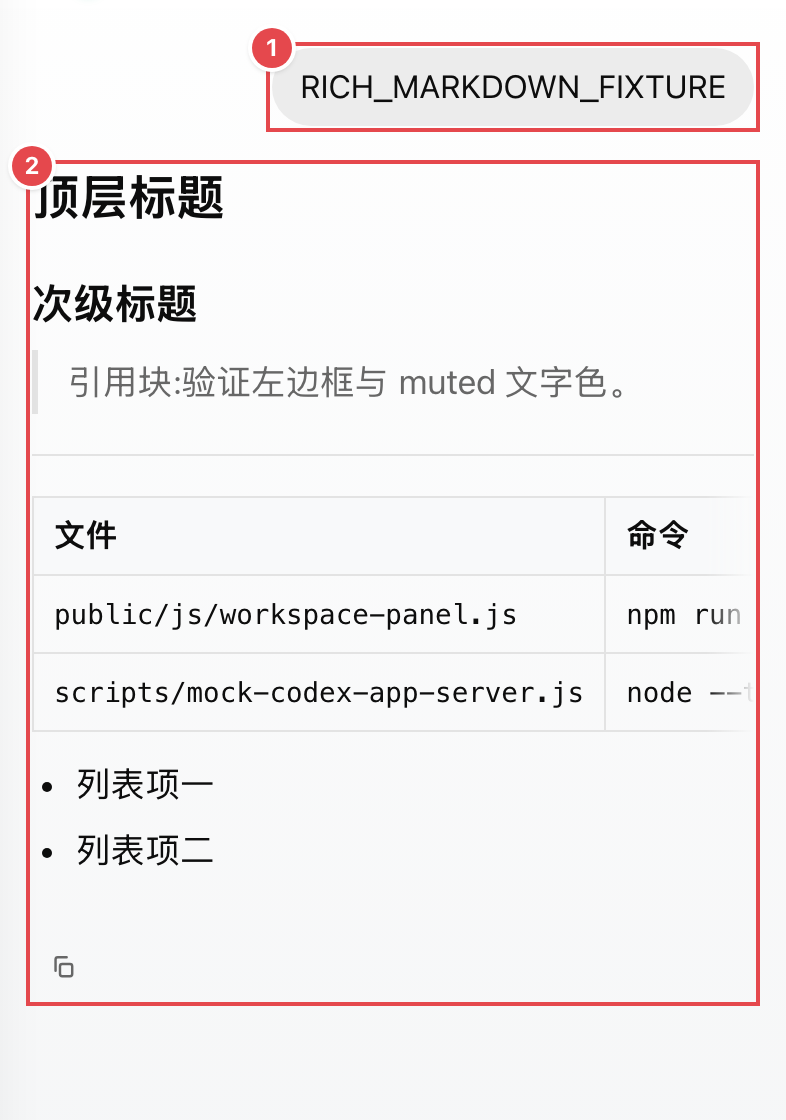
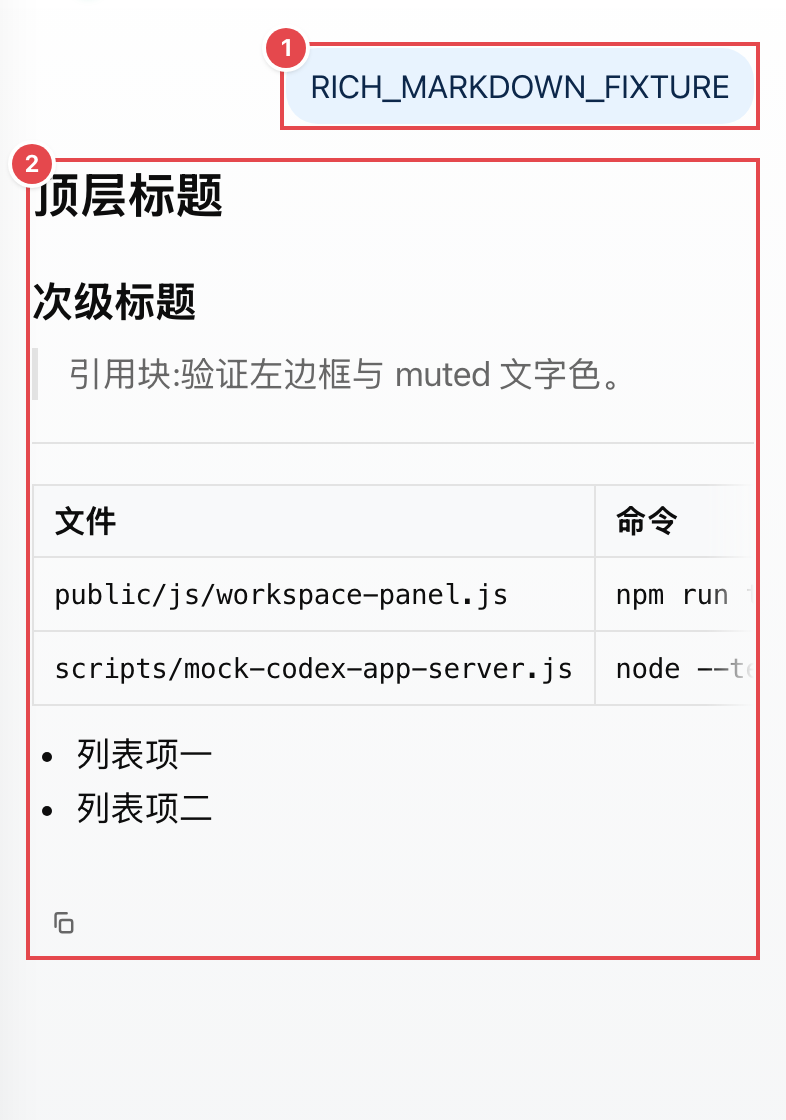
feat(ui): 把 ChatGPT 桌面端的视觉细节补齐，不只抄结构
上一轮只抄了结构和文案（活动行、时态、折叠摘要、divider），视觉基本还是
本项目原样——调研时扒到的具体数值一条都没落地。这次补完。

数值全部取自本机 ChatGPT.app 的 webview bundle（conversation-blocks 的
compact 气泡与通用 .loading-shimmer），不是估的：

- 等待态从三个脉动圆点换成「正在思考」四个字被微光横扫。关键是
  steps(48, end)：微光走 48 级阶梯而不是平滑滑过，看起来像逐字点亮，
  换成线性就只剩一道平淡反光。reasoning 进行时复用同一个类——这两者
  前后脚出现，用两套动效会让人以为是两件事。
- 用户气泡取原配色：浅色 #e8f3fe 底 / #0c274a 字（12.9:1），
  深色 #173e76 / #f6fafe（9.9:1）。窄窗里灰气泡和助手正文、工具行
  构成三层灰阶，谁是谁要靠位置分辨；换成蓝之后一眼可辨。
- 气泡几何：16px 圆角 + corner-shape: superellipse(1)、8px/12px 内边距、
  width: fit-content、max-width min(456px, 100%)。含代码块时用 :has()
  撑满——贴合内容对短句是对的，代码块被挤成窄条就没法读。
- 行距换成绝对增量 calc(1em + 6px)，letter-spacing: -0.01em，两档字号共用。

Constraint: superellipse 是 2025 年的新属性，不支持的浏览器整条忽略、
        退回普通 border-radius，降级干净所以不做特性检测
Rejected: 保留「紧凑气泡行高比更低」那条判据——绝对增量下比值随字号反向变化
        （用户 22/16=1.375 高于助手 23/17=1.353），那条在新公式下恒假，
        不是回归。换成守 lineHeight - fontSize ≈ 6px
Rejected: 给 .loading-shimmer 只写 animation: none 当 reduced-motion 兜底——
        text-fill-color 是透明的，只停动画会留下一行看不见的字，必须把颜色填回来
Tested: npm run lint 绿
Tested: npm test 1094 passed / 0 failed
Tested: npx playwright test 177 passed / 0 failed（chrome + webkit 全量）
Tested: npm run shots 重生成 19 张；09-message-markdown 与 22-dark-mode
        两档气泡逐张核对，浅色蓝底深字、深色蓝底浅字都清楚
Tested: 等待态实测计算样式 background-clip: text、steps(48)、2s，文字可见
Not-tested: npm run protocol:check —— 本机 codex 是 0.153.4，项目 pin 0.147.0
Not-tested: 行距收紧对长段中文的实际观感。mock fixture 没有长中文段落，
        截图看不出来；真机上连续读几段才判断得了
Not-tested: superellipse 在 iOS Safari 的实际表现，macOS 无头测不到

diff --git a/public/css/app.css b/public/css/app.css
@@ -13,8 +13,12 @@
   --accent-light: #10a37f; /* OpenAI Green */
   /* 文字档:on #ffffff = 4.77:1,on --bg #f8f9fa = 4.53:1,两者均过 WCAG AA 正文。 */
   --accent-text: #0d8265;
-  --user-bg: #ececec;
-  --user-text: #0d0d0d;
+  /* 用户气泡取 ChatGPT 桌面端 compact 视图的原值（compact-message-bubble-
+     background / -foreground）。窄窗里它不是灰的——灰气泡和助手正文、工具行
+     一起构成三层灰阶，谁是谁要靠位置分辨；换成蓝之后「这句是我说的」一眼可辨。
+     对比度 #0c274a on #e8f3fe ≈ 12.9:1，远超 AA。 */
+  --user-bg: #e8f3fe;
+  --user-text: #0c274a;
   --codex-bg: transparent;
   --codex-border: transparent;
   --tool-bg: #ffffff;
@@ -136,8 +140,9 @@
     --accent: #f2f2f2;
     /* 深色下装饰档已达 5.33:1(on --surface)/ 5.86:1(on --bg),文字档无需再沉一档。 */
     --accent-text: #10a37f;
-    --user-bg: #2a2a2a;
-    --user-text: #f2f2f2;
+    /* 同上，深色档的原值。#f6fafe on #173e76 ≈ 9.9:1。 */
+    --user-bg: #173e76;
+    --user-text: #f6fafe;
     --tool-bg: #1c1c1c;
     --tool-border: #2e2e2e;
     --system: #9a9a9a;
@@ -788,7 +793,10 @@ body {
   content-visibility: auto;
   contain-intrinsic-size: auto 100px;
 }
-.msg.user { align-self: flex-end; align-items: flex-end; max-width: min(85%, 420px); }
+/* 456px 是 ChatGPT compact 视图给用户气泡定的上限（--user-chat-width）。
+   本项目原来是 min(85%, 420px)：百分比那一档在 393px 视口下只剩 334px，
+   短句还好，一长就提前折行。 */
+.msg.user { align-self: flex-end; align-items: flex-end; max-width: min(456px, 100%); }
 .msg.codex { align-self: stretch; align-items: stretch; max-width: 100%; }
 .msg.system-msg { align-self: center; max-width: 100%; }
 .assistant-turn {
@@ -808,23 +816,37 @@ body {
   word-break: break-word;
   white-space: pre-wrap;
 }
-/* 用户消息是紧凑气泡:字号小一档,行高必须跟着收 —— 沿用 .bubble 里为 15px 正文
-   定的 1.55,两行短句之间会空得像两个段落。 */
+/* 几何全部取 ChatGPT compact 气泡的原值：16px 圆角、8px/12px 内边距、
+   宽度贴合内容。
+
+   corner-shape: superellipse(1) 是把圆角换成超椭圆（iOS 那种连续曲率）。
+   降级很干净——不支持的浏览器整条忽略，留下普通 border-radius。 */
 .user .bubble {
   background: var(--user-bg);
   color: var(--user-text);
-  border-radius: var(--radius-lg);
+  border-radius: 16px;
+  corner-shape: superellipse(1);
   box-shadow: none;
   font-size: var(--font-body);
-  line-height: 1.45;
+  padding: 8px 12px;
+  width: fit-content;
+  line-height: calc(1em + 6px);
+  letter-spacing: -0.01em;
 }
-/* 助手回复是长文阅读态:铺满阅读栏、段落和列表多,行高放宽一档更好扫读。 */
+/* 气泡宽度贴合内容对短句是对的，但代码块被挤成窄条就没法读了。用 :has() 让气泡
+   «看见»自己装了什么再决定宽度——ChatGPT 原样如此。 */
+.user .bubble:has(pre, code) {
+  width: 100%;
+}
+/* 助手正文同样吃这套排版。行高是 calc(1em + 6px) 而不是倍数：倍数在字号变化时
+   行距等比放大，大字号被推散、小字号又挤；绝对增量让不同字号保持同一条呼吸节奏。 */
 .codex .bubble {
   background: transparent;
   color: var(--text);
   border-radius: 0;
   padding: 0;
-  line-height: 1.65;
+  line-height: calc(1em + 6px);
+  letter-spacing: -0.01em;
 }
 .codex .bubble.md {
   white-space: normal;
@@ -1149,16 +1171,42 @@ body {
   font-size: var(--font-xs);
 }
 .reasoning-fold[open] .reasoning-toggle::before { content: '▾ '; }
-.reasoning-card[data-streaming="true"] .reasoning-label {
-  animation: reasoningPulse 1.4s ease-in-out infinite;
+/* 「还在进行」的统一信号：文字被一道微光从左扫到右。等待态和 reasoning 进行时
+   共用它（.loading-shimmer 由 JS 挂上/摘掉），因为这两者前后脚出现，用两套动效
+   会让人以为是两件不同的事。
+
+   数值照抄 ChatGPT 桌面端的 .loading-shimmer：2s 一个周期、渐变带宽只占文字的
+   50%、background-position 从 -100% 走到 250%。关键是 steps(48, end)——微光走
+   48 级阶梯而不是平滑滑过，看起来像逐字点亮；ChatGPT 管这个叫 cadenced（有节奏），
+   换成线性就变成一道平淡的反光，那个「正在一个字一个字想」的感觉就没了。 */
+@keyframes loadingShimmer {
+  0% { background-position: -100% 0; }
+  100% { background-position: 250% 0; }
 }
-@keyframes reasoningPulse {
-  0%, 100% { opacity: 0.55; }
-  50% { opacity: 1; }
+.loading-shimmer {
+  display: inline-block;
+  background: var(--text-muted) linear-gradient(
+    to right,
+    transparent 0%,
+    var(--text) 40%,
+    var(--text) 60%,
+    transparent 100%
+  );
+  background-position: -100% 0;
+  background-repeat: no-repeat;
+  background-size: 50% 200%;
+  -webkit-background-clip: text;
+  background-clip: text;
+  -webkit-text-fill-color: transparent;
+  animation: loadingShimmer 2s steps(48, end) infinite;
 }
+/* 关掉动画还不够：text-fill-color 是透明的，只停动画会留下一行看不见的字。
+   必须把颜色填回来。 */
 @media (prefers-reduced-motion: reduce) {
-  .reasoning-card[data-streaming="true"] .reasoning-label {
+  .loading-shimmer {
     animation: none;
+    background: none;
+    -webkit-text-fill-color: var(--text-muted);
   }
 }
 .reasoning-stack { margin-top: var(--space-2); }
@@ -1368,30 +1416,14 @@ body {
 .ansi-muted { color: #868e96; }
 
 /* Typing indicator */
+/* 等待态。原先是三个脉动的圆点——它只说明「在动」，不说明在做什么，而且和后面
+   紧接着出现的 reasoning「正在思考」是两套视觉语言。ChatGPT 桌面端这里放的就是
+   文字本身，由 .loading-shimmer 扫光，所以这里只管排版，动效交给那个类。 */
 .typing {
-  display: flex;
-  gap: var(--space-1);
   padding: var(--space-3) 0;
-  background: transparent;
+  font-size: var(--font-md);
+  line-height: 1.5;
   width: fit-content;
-}
-/* 原先是 translateY(-6px) 的 bounce —— 位移量正好等于点自身的直径,三个点轮流弹起
-   一个身位,视线被迫跟着上下扫。改成原地的透明度脉动:同样传达「在动」,但不产生
-   位移,而且和流式光标(streamCaret)用上了同一套视觉语言,两者常常前后脚出现。 */
-.typing span {
-  width: 6px; height: 6px;
-  border-radius: 50%;
-  background: var(--text-muted);
-  animation: typingPulse 1.4s ease-in-out infinite;
-}
-.typing span:nth-child(2) { animation-delay: 0.2s; }
-.typing span:nth-child(3) { animation-delay: 0.4s; }
-@keyframes typingPulse {
-  0%, 100% { opacity: 0.25; }
-  50% { opacity: 0.9; }
-}
-@media (prefers-reduced-motion: reduce) {
-  .typing span { animation: none; opacity: 0.6; }
 }
 
 /* Floating Settings Badges */

diff --git a/public/js/app.js b/public/js/app.js
@@ -3335,7 +3335,7 @@ import { createDeviceToken, decodeBase64Text, urlBase64ToUint8Array } from '/js/
       card.className = 'tool-card reasoning-card';
       card.dataset.card = 'meta';
       card.dataset.streaming = 'true';
-      card.innerHTML = '<details class="reasoning-fold"><summary class="reasoning-toggle"><span class="reasoning-label">正在思考</span></summary><div class="reasoning-stack"></div></details>';
+      card.innerHTML = '<details class="reasoning-fold"><summary class="reasoning-toggle"><span class="reasoning-label loading-shimmer">正在思考</span></summary><div class="reasoning-stack"></div></details>';
       appendRaw(card, 'codex');
       appendReasoning.card = card;
       appendReasoning.sections = {};
@@ -3463,6 +3463,8 @@ import { createDeviceToken, decodeBase64Text, urlBase64ToUint8Array } from '/js/
     const label = appendReasoning.card?.querySelector('.reasoning-label');
     if (label) {
       label.textContent = thoughtLabel(appendReasoning.startedAt ? Date.now() - appendReasoning.startedAt : 0);
+      // 思考结束，微光停下：shimmer 是「还在进行」的信号，留着会一直暗示没完。
+      label.classList.remove('loading-shimmer');
     }
     if (appendReasoning.card) delete appendReasoning.card.dataset.streaming;
     appendReasoning.card = null;
@@ -3515,7 +3517,10 @@ import { createDeviceToken, decodeBase64Text, urlBase64ToUint8Array } from '/js/
     if (typingEl) return;
     const el = document.createElement('div');
     el.className = 'msg codex';
-    el.innerHTML = `<div class="typing"><span></span><span></span><span></span></div>`;
+    // ChatGPT 的等待态不是三个点，是「正在思考」这几个字本身被一道微光扫过。
+    // 文案和 reasoning 的进行时一致（reasoningItem.thinking），两者前后脚出现，
+    // 用同一句话就不会让人以为是两件事。
+    el.innerHTML = `<div class="typing"><span class="loading-shimmer">正在思考</span></div>`;
     typingEl = el;
     messagesEl.appendChild(el);
     scrollBottom();

diff --git a/e2e/markdown-typography.spec.js b/e2e/markdown-typography.spec.js
@@ -255,12 +255,25 @@ test.describe('助手回复的 Markdown 排版', () => {
       };
     });
 
-    // 用户消息是紧凑气泡:字号小一档,行高不能沿用为 15px 正文定的 1.55。
+    // 用户消息仍然小一档：两档字号是分开的。
     expect(metrics.user.fontSize).toBeLessThan(metrics.codex.fontSize);
+
+    // 行距判据从「比值」换成「绝对增量」，因为排版规则换了（抄 ChatGPT 的
+    // --markdown-line-height: calc(font-size + 6px)）。倍数行高在字号变化时行距
+    // 等比放大，大字号被推散、小字号又挤；绝对增量让两档保持同一条呼吸节奏。
+    //
+    // 副作用是比值会随字号**反向**变化——6px 在小字号里占比更大，于是用户气泡的
+    // 比值（22/16=1.375）反而高于助手正文（23/17=1.353）。原来那条「紧凑气泡比值
+    // 应更低」在这个公式下恒假，不是回归。守住公式本身才是这里该管的事：
+    // 有人改回倍数行高，这两条立刻红。
     expect(
-      metrics.user.lineHeight / metrics.user.fontSize,
-      '紧凑气泡的行高比应低于长文阅读态',
-    ).toBeLessThan(metrics.codex.lineHeight / metrics.codex.fontSize);
+      metrics.user.lineHeight - metrics.user.fontSize,
+      '用户气泡的行距不是「字号 + 6px」了',
+    ).toBeCloseTo(6, 0);
+    expect(
+      metrics.codex.lineHeight - metrics.codex.fontSize,
+      '助手正文的行距不是「字号 + 6px」了',
+    ).toBeCloseTo(6, 0);
   });
 
   test('reasoning 正文保持无衬线,没有掉回 <pre> 的等宽默认字体', async ({ page }) => {

diff --git a/docs/TESTING.md b/docs/TESTING.md
@@ -109,6 +109,10 @@ npm run test:e2e
 
 **相邻标题级别必须真的分得出来。** 判据不是「h1 比 h2 大」（0.5px 也算大），而是**字号比 ≥1.15 或字重差 ≥50，二选一**。只卡字号不够：中文是等宽方块字，没有 x-height 和升降部可以参照尺寸，改动前 h1 19.5px / h2 17.25px（差 13%）在深色模式截图上看着一模一样。字重是第二个维度，拉开它同样解决问题，所以判据写成二选一而不是钉死字号。
 
+**行距判据是绝对增量，不是比值**（2026-09-13 改，抄 ChatGPT 的 `--markdown-line-height: calc(font-size + 6px)`）。倍数行高在字号变化时行距等比放大，大字号被推散、小字号又挤；绝对增量让两档字号保持同一条呼吸节奏。
+
+改这条时踩到一个反直觉的地方：**比值会随字号反向变化**。6px 在小字号里占比更大，于是用户气泡（16px→22px，比值 1.375）反而高于助手正文（17px→23px，比值 1.353）。原来那条「紧凑气泡的行高比应低于长文阅读态」在新公式下**恒假**——它不是回归，是判据本身过期了。换成守 `lineHeight - fontSize ≈ 6px`：有人改回倍数行高，两档立刻红，而这正是该守的东西。
+
 ### 入口收编：可达性覆盖必须跟着搬
 
 2026-09-13 把账号 / 主机状态那 7 个入口从抽屉收进「设置与状态」sheet 时，

diff --git a/docs/UI_SURFACE.md b/docs/UI_SURFACE.md
@@ -140,6 +140,7 @@ npm run shots
 | 13 | 活动摘要 | turn 结束后，相邻的活动行折成一句过去时（「已搜索网页、运行了命令」）。整组是同一个工具时改用计数（`read_file · 3 次调用`） |
 | 14 | 「用时 N 秒」 | 活动区与最终回复之间的分隔线 |
 | 15 | 复制按钮 | turn 末尾，复制本轮回复的 markdown 原文 |
+| — | 等待态 | 发出消息到助手开口之间，显示「正在思考」四个字，一道微光从左扫到右（不是三个点）。**无图**：它只存在于 turn 开头的一瞬，截图脚本抓不稳 |
 | — | turn 终态 | 完成 / 失败 / 中断的摘要 |
 
 **只有一条活动时不折叠**：它本来就只占一行，再套一层「运行了命令 ▸」反而多一次点击才看得到内容。

diff --git a/docs/FEATURES.md b/docs/FEATURES.md
@@ -73,6 +73,9 @@
 | 2.18 | 空会话引导卡片 | `empty-state` |
 | 2.19 | turn 完成的无障碍播报 | `turn-announcer` |
 | 2.20 | turn 末尾的复制按钮，复制 markdown 原文而非渲染后的纯文本 | `appendTurnActions` |
+| 2.21 | 等待态是「正在思考」+ 微光横扫，与 reasoning 进行时同一套视觉 | `showTyping` / `.loading-shimmer` |
+| 2.22 | 用户气泡取 ChatGPT 的蓝底深字、16px 超椭圆圆角、宽度贴合内容，含代码块时撑满 | `.user .bubble` |
+| 2.23 | 行距用绝对增量（字号 + 6px）而非倍数，两档字号共用同一条呼吸节奏 | `.bubble` / `.codex .bubble` |
 
 ---
 
